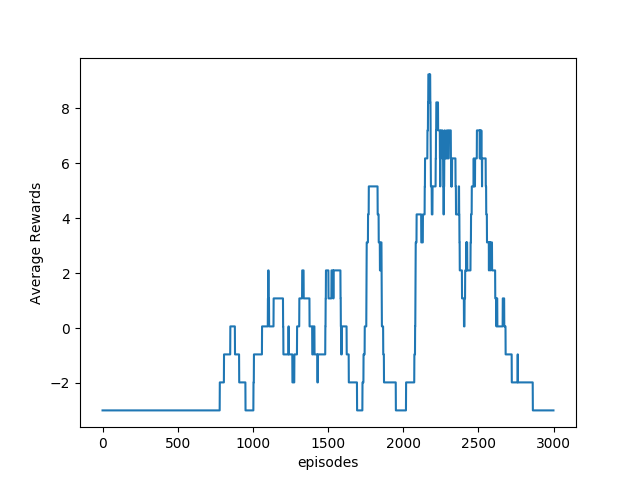
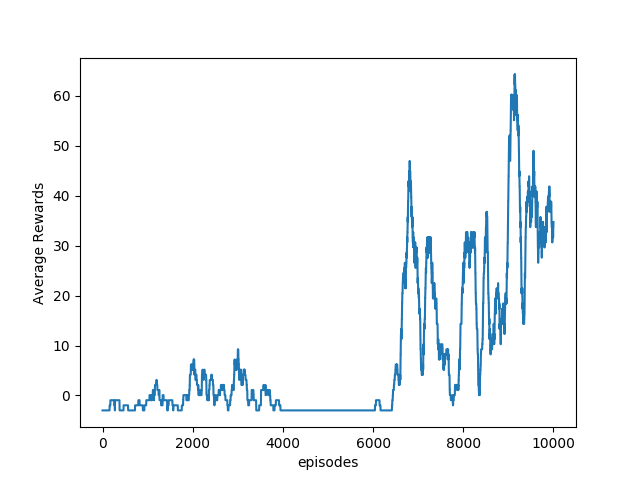
train 3 enemy with 10000 es

diff --git a/pythonsection/atari_agent.py b/pythonsection/atari_agent.py
@@ -144,7 +144,7 @@ if __name__ == '__main__':
 
     epsilon = 1.0
     epsilon_min = 0.1
-    epsilon_change = (epsilon - epsilon_min) / 50000#500000
+    epsilon_change = (epsilon - epsilon_min) / 100000#500000
 
     model = DQN(K=K, input_shape=2 + 2*number_enemy, scope="model")
     target_model = DQN(K=K, input_shape=2 + 2*number_enemy, scope="target_model")
